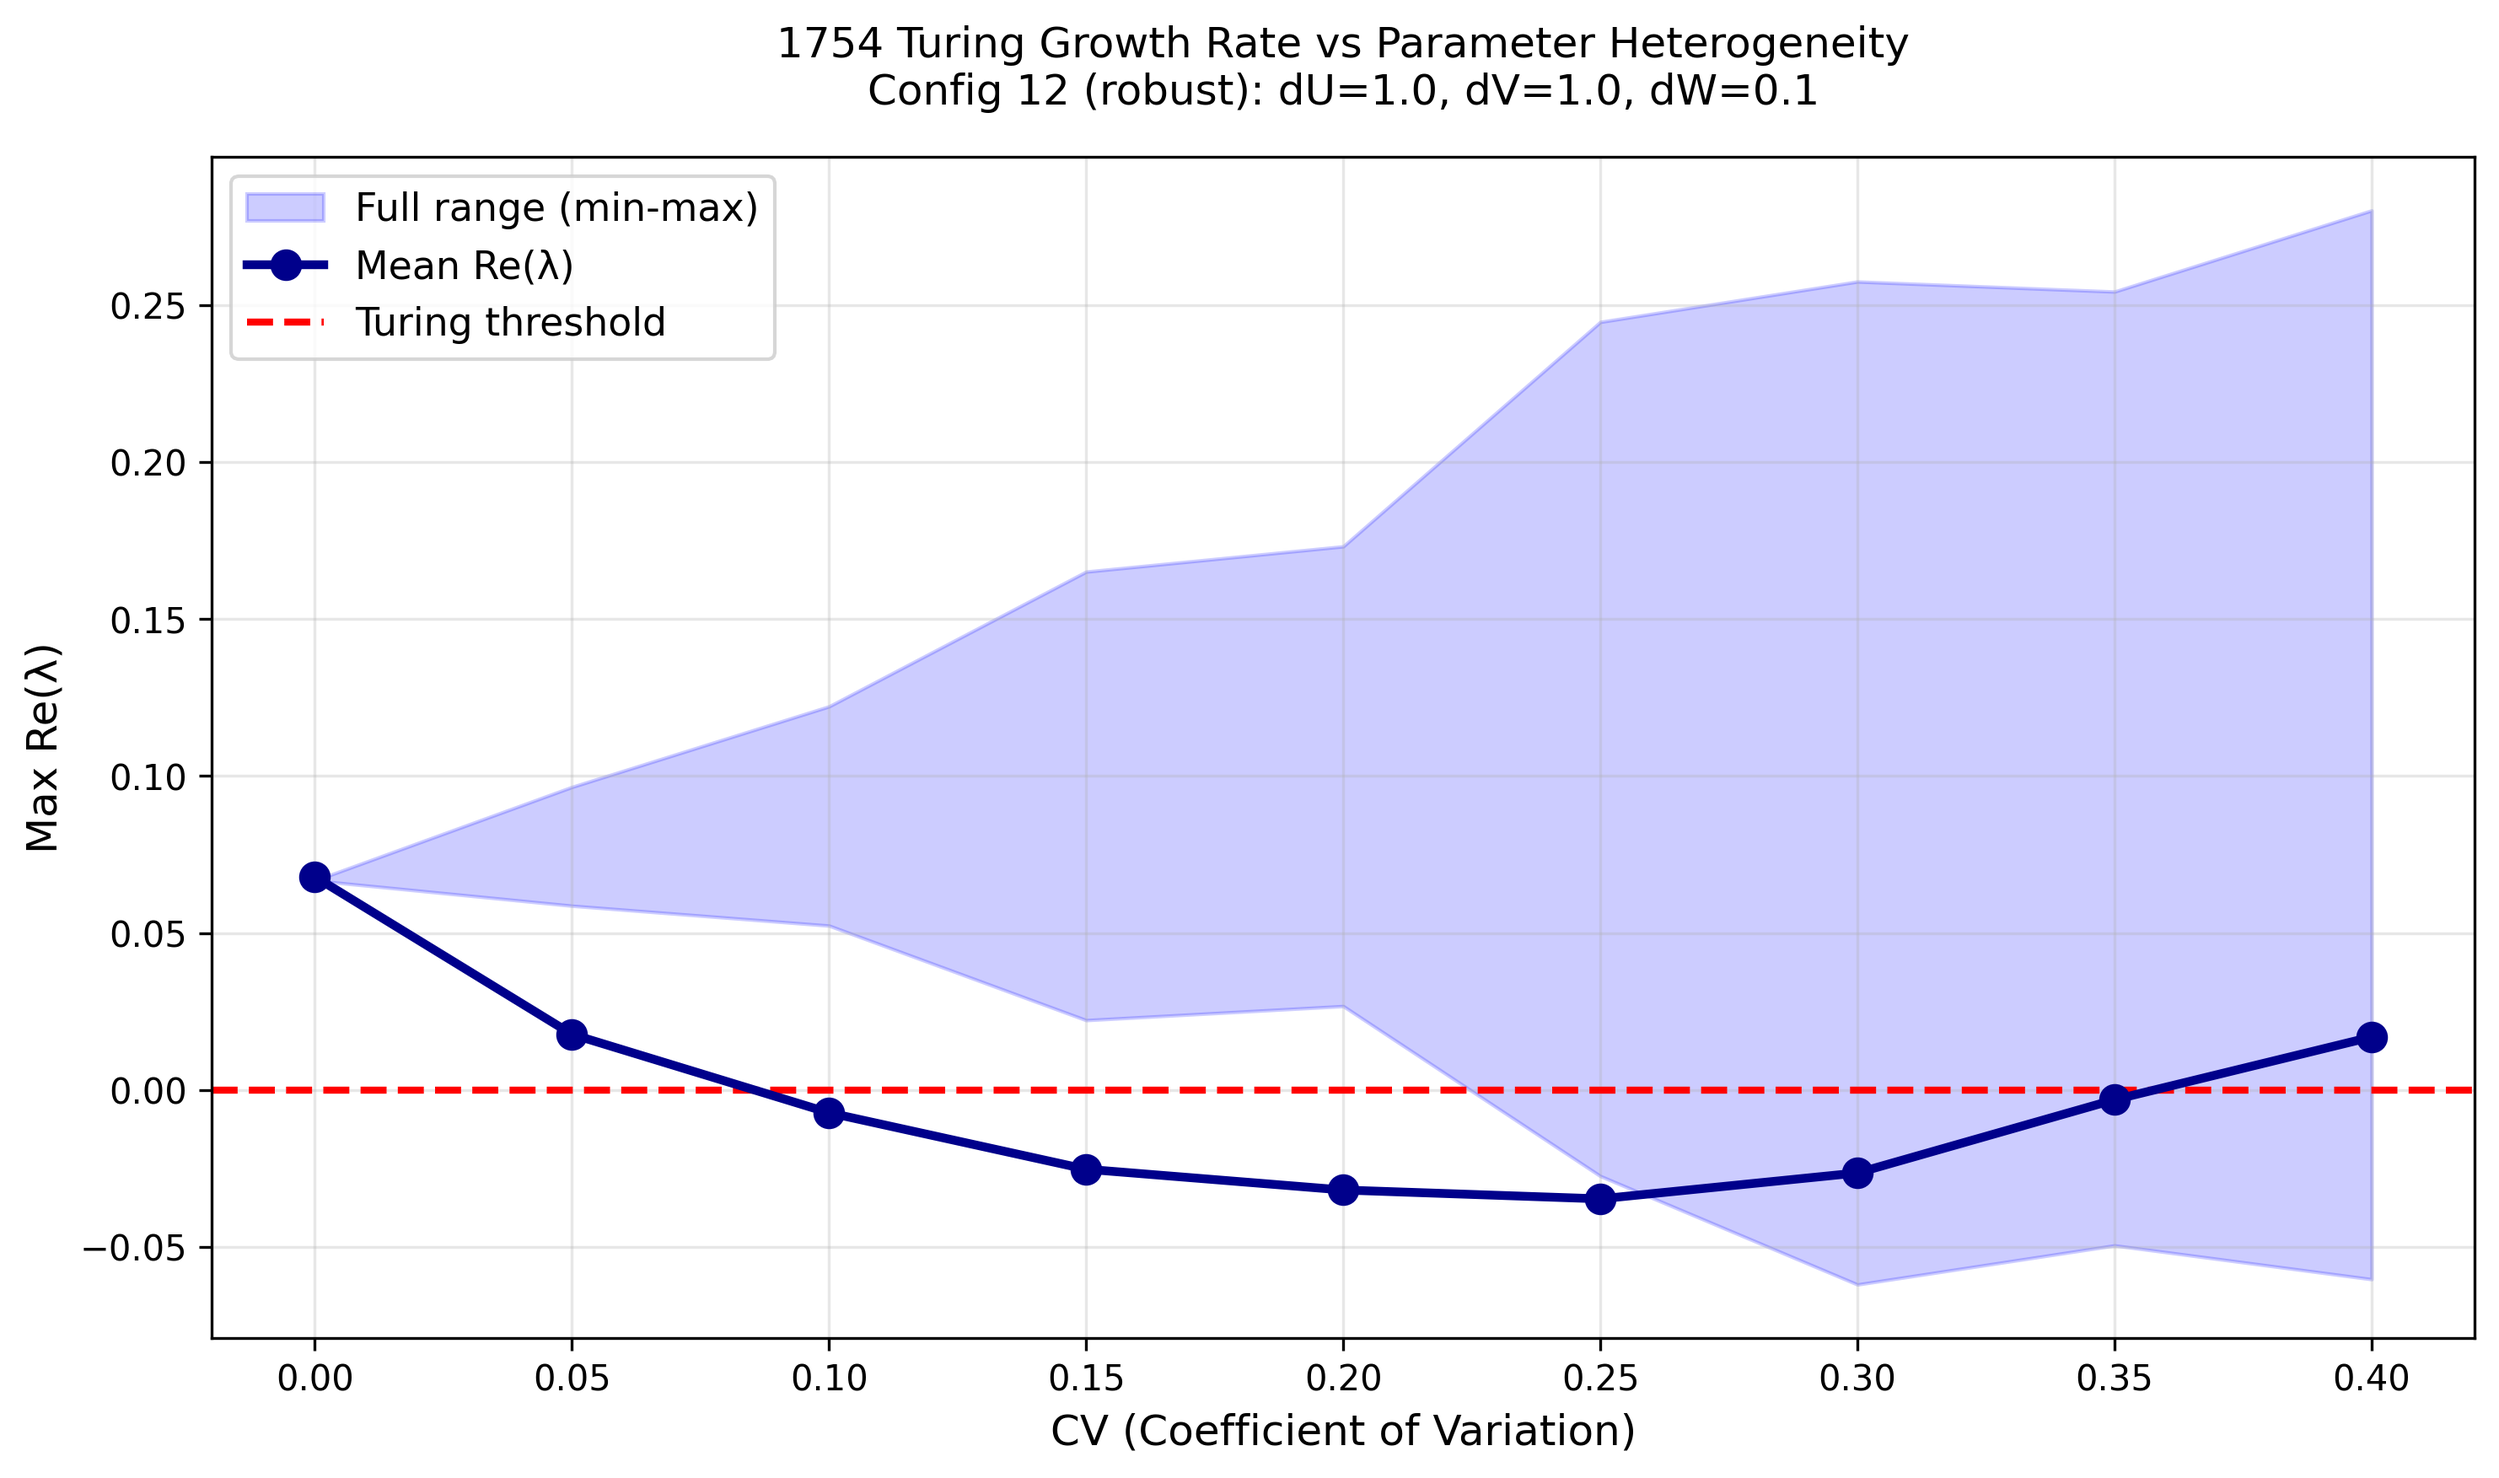
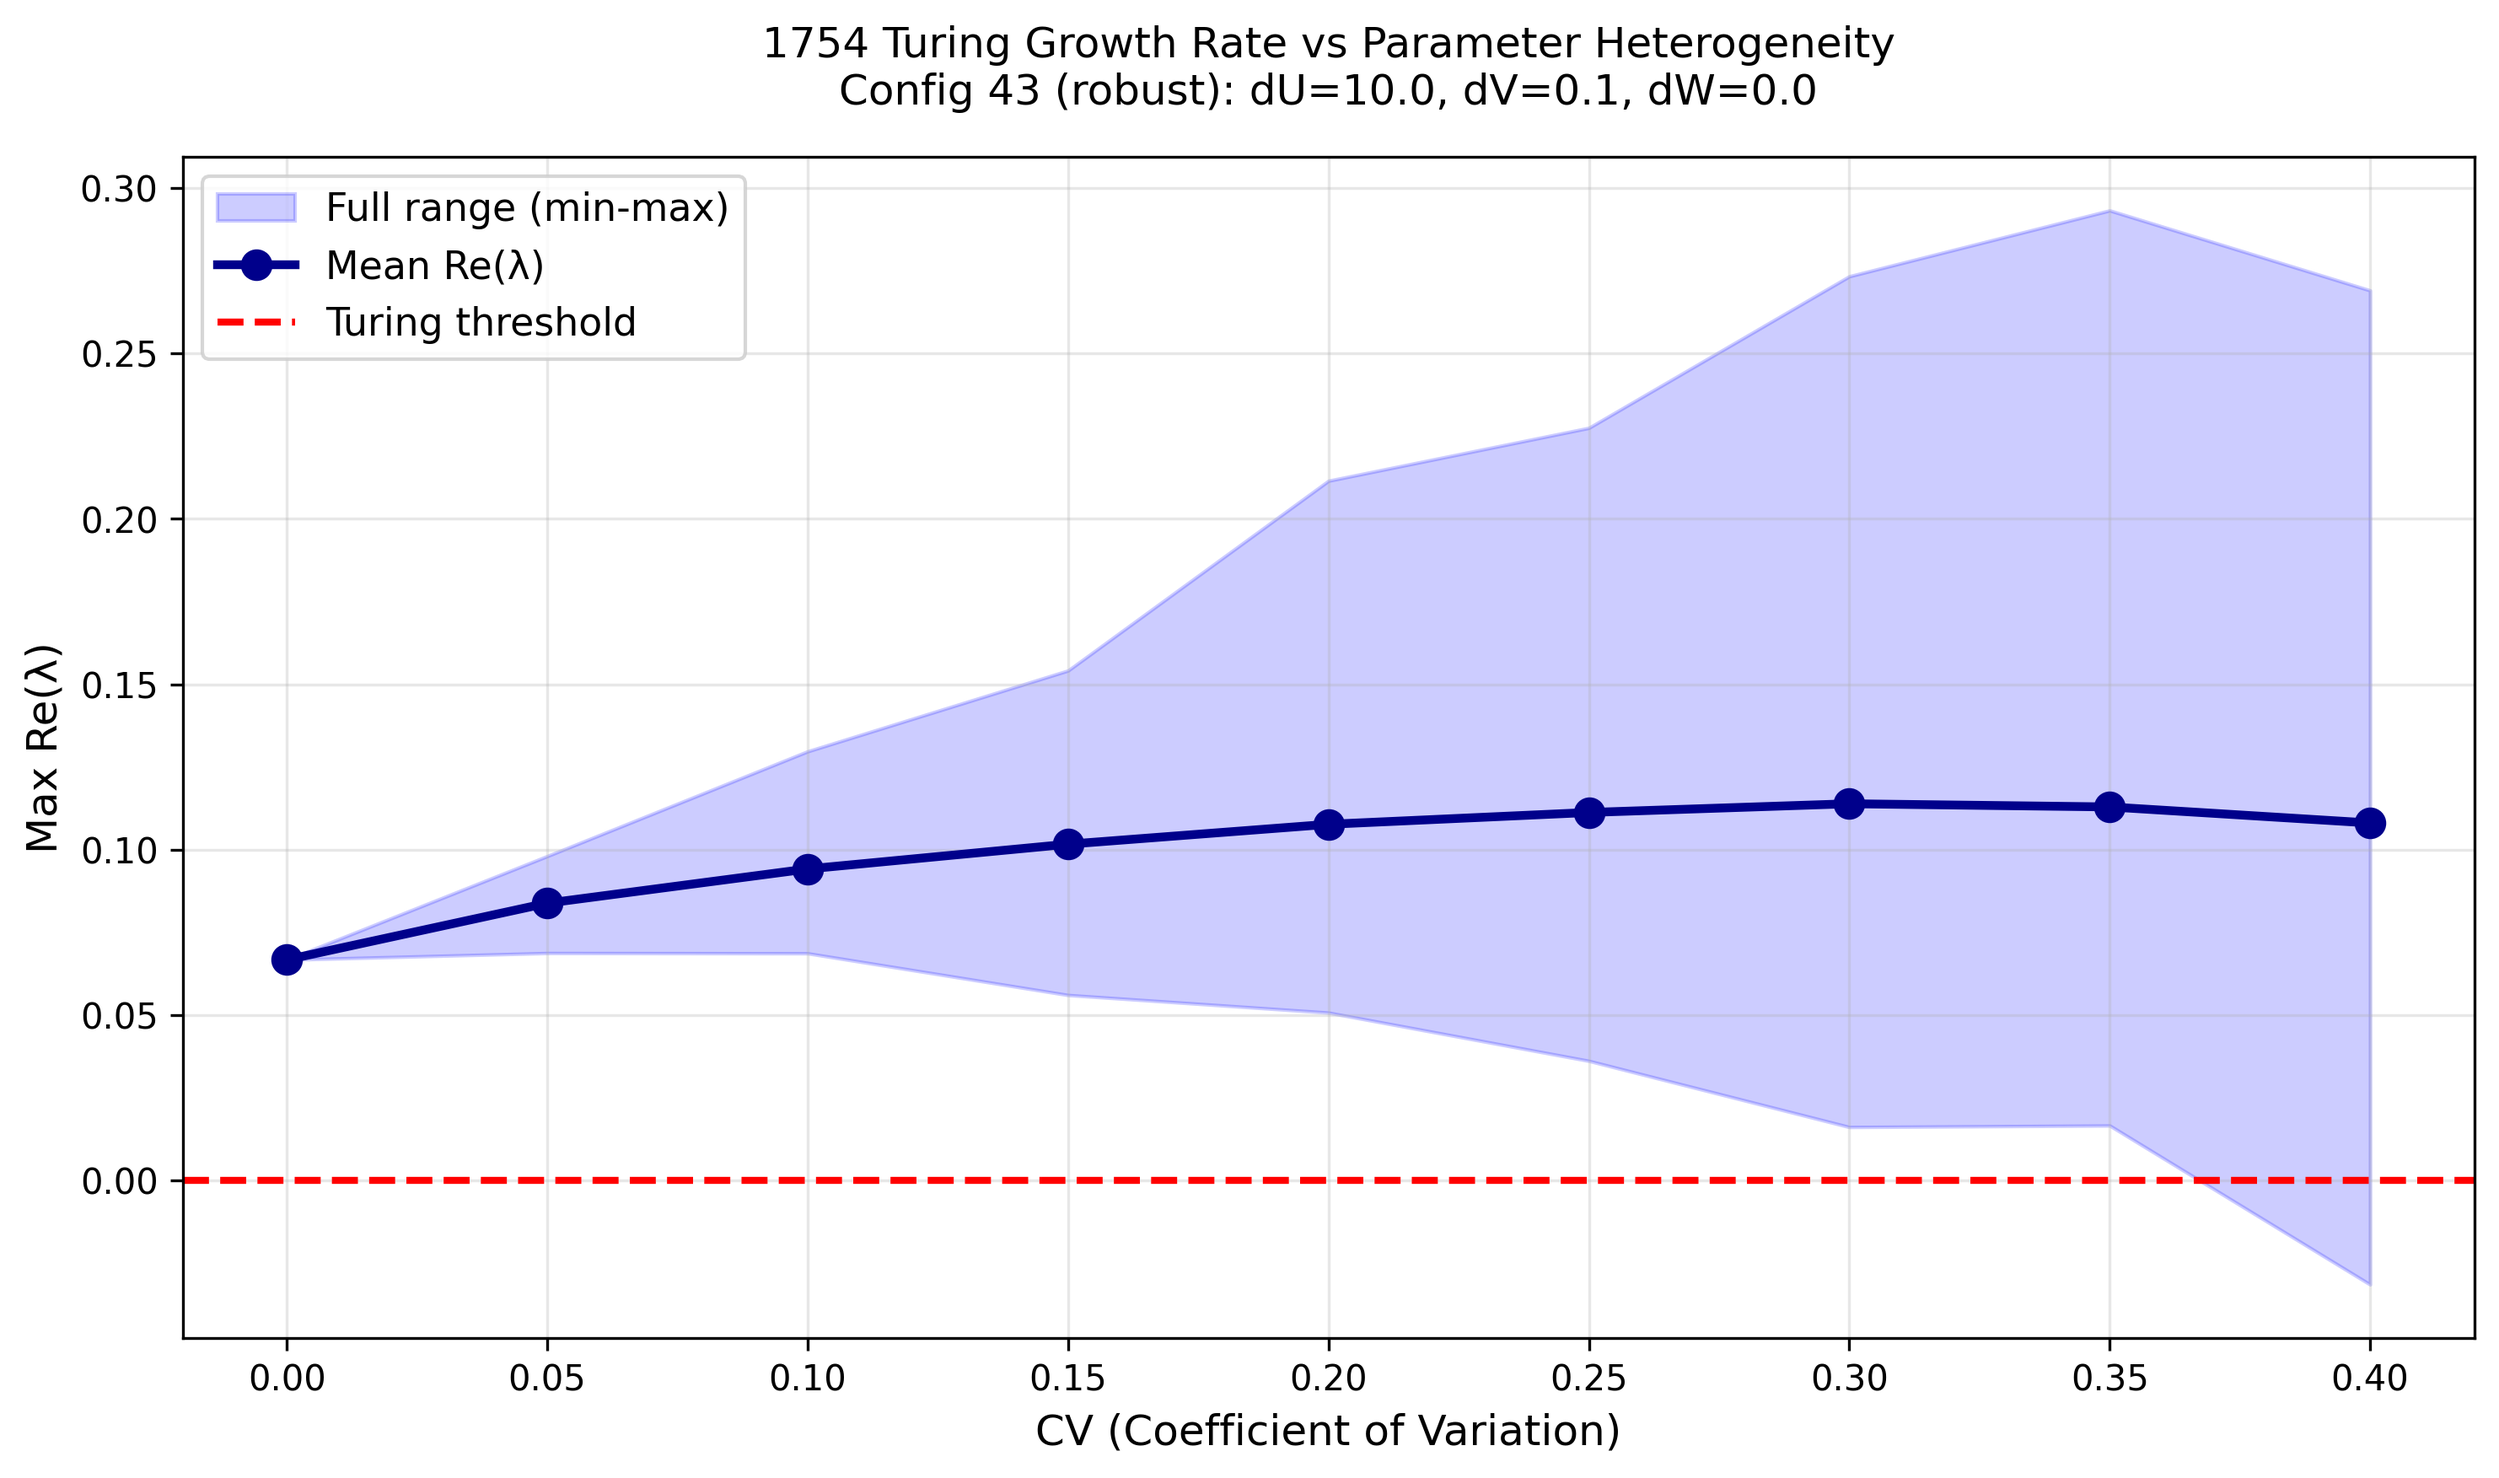
i know that youve been waiting

diff --git a/BiologicalRealism/heterogenous_ring_1754.py b/BiologicalRealism/heterogenous_ring_1754.py
@@ -149,7 +149,7 @@ def is_turing_shaberi(J, eigs_0, DU, DV, DW):
 # PARAMETRS FOR HOMOGENOUS RING (EXAMPLE)
 
 # CHANGE THIS TO TEST DIFFERENT CONFIGS:
-CONFIG_TO_TEST = 12 #  
+CONFIG_TO_TEST = 3 #  
 CONFIG_LABEL = "low"  # or "low" — change this once when you switch configs
 N_cells = 10 # for sanity check run with N = 5, 10 and 20, 30??
 n_trials = 1000

diff --git a/BiologicalRealism/heterogenous_ring_3954.py b/BiologicalRealism/heterogenous_ring_3954.py
@@ -190,7 +190,7 @@ def is_turing_shaberi(J, eigs_0, DU, DV, DW):
 # ])
 
 # THINGS TO CHECK: WHY ARE THERE SOO MANY DISCARDED...??!!
-CONFIG_TO_TEST = 2
+CONFIG_TO_TEST = 3
 CONFIG_LABEL = "low"  # " high" or "low" — change this once when you switch configs
 n_trials = 1000
 N_cells = 10

diff --git a/BiologicalRealism/plots.py b/BiologicalRealism/plots.py
@@ -505,7 +505,6 @@ robustness_curves = [
 ]
 
 # combined plot with two subplots for each topology
-
 fig, axes = plt.subplots(1, 2, figsize=(14, 5.5), sharey=False)
 
 for ax, topo in zip(axes, ['#3954', '#1754']):
